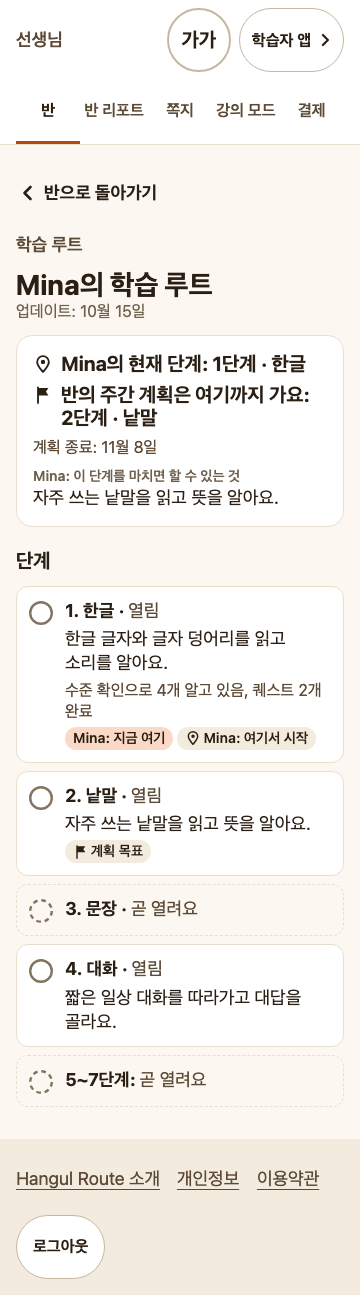
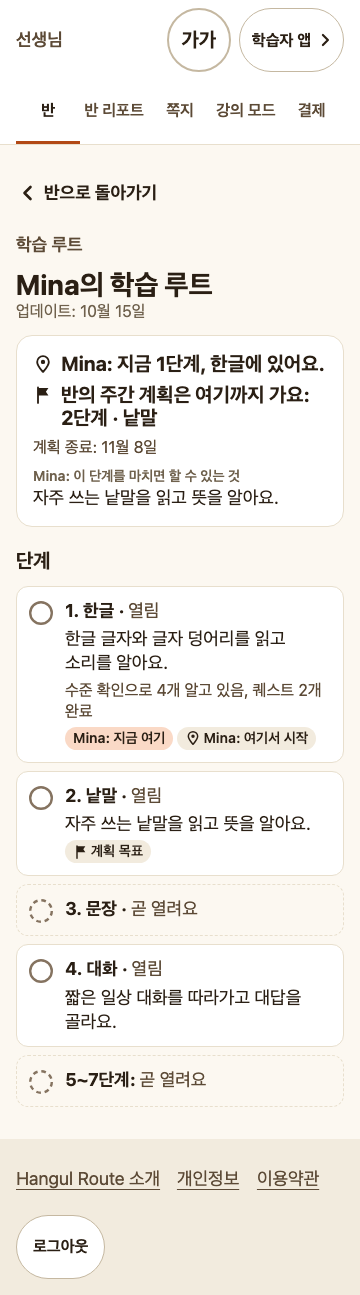
refactor(web,scripts): GX-9 stage titles from the shipped content overlays, no dictionary key
AMENDMENTS-GROWNUP-UX section 10.3 (as merged into GX-0 #917) says a stage title is content: the
console shows the overlay title (content/i18n/{es,ko}/stages.json) for the UI locale, English when
the overlay has none, and GX-9 adds no dictionary key and no new translation.

- build-lecture-catalogue keeps `stage:stageN` titles in the generated CATALOGUE_TITLES.
- stageTitleIn(locale) reads them, falling back to the shipped English STAGE_TITLES.
- packages/i18n back to main: console.stageTitles removed, the ko learningRoute.now line and the
  console review-ledger sign-off restored (the en text is unchanged, so no re-sign is needed).
- Tests: en equals stages.ts; es/ko equal the overlay files; generator id pattern covers stages.
- ko screenshots regenerated (the restored now line).

Changed region(s): [[0.3056, 0.2471, 0.8861, 0.3089]]

diff --git a/apps/web/src/lib/console/__tests__/stage-titles.test.ts b/apps/web/src/lib/console/__tests__/stage-titles.test.ts
@@ -1,6 +1,6 @@
 import { readFileSync } from 'node:fs';
 import { StageKeySchema } from '@hangul-route/content-schema';
-import { LOCALES, getMessages } from '@hangul-route/i18n';
+import { LOCALES } from '@hangul-route/i18n';
 import { describe, expect, it } from 'vitest';
 import { STAGE_TITLES, stageTitleIn } from '../stage-titles';
 
@@ -10,9 +10,9 @@ import { STAGE_TITLES, stageTitleIn } from '../stage-titles';
  * console bundle has no copy of that file, so this test keeps the two in step: a renamed stage
  * fails here before a parent and a child read different names.
  *
- * AMENDMENTS-GROWNUP-UX section 10.3 (GX-9, GX-OD-7): the console reads them from
- * `console.stageTitles` in the viewer's locale, so a Korean or Spanish grown-up no longer reads
- * "4단계 · Dialogue". English stays the shipped list.
+ * AMENDMENTS-GROWNUP-UX section 10.3 (GX-9, GX-OD-7): in es and ko the console shows the learner app's own
+ * overlay titles (`content/i18n/{es,ko}/stages.json`), so a Korean or Spanish grown-up no longer reads an English
+ * title inside their own line. English stays the shipped list. No dictionary key.
  */
 const MOBILE_STAGES = new URL('../../../../../mobile/src/content/stages.ts', import.meta.url);
 
@@ -31,59 +31,30 @@ describe('stage titles (Learning Route LR-8)', () => {
 });
 
 describe('stage titles in the viewer locale (GX-9, AMENDMENTS-GROWNUP-UX section 10.3)', () => {
-  it('English is the shipped list, unchanged, and is what the dictionary holds', () => {
-    expect(getMessages('en').console.stageTitles).toEqual(STAGE_TITLES);
+  it('English is the shipped list, unchanged', () => {
     for (const stage of StageKeySchema.options) expect(stageTitleIn('en')(stage)).toBe(STAGE_TITLES[stage]);
   });
 
   it('every locale names all seven stages', () => {
     for (const locale of LOCALES) {
-      const titles = getMessages(locale).console.stageTitles;
-      expect(Object.keys(titles), locale).toEqual([...StageKeySchema.options]);
       for (const stage of StageKeySchema.options) expect(stageTitleIn(locale)(stage).trim().length, `${locale} ${stage}`).toBeGreaterThan(0);
     }
   });
 
-  it('Korean and Spanish carry the section 10.3 titles', () => {
-    expect(getMessages('ko').console.stageTitles).toEqual({
-      stage1: '한글',
-      stage2: '낱말',
-      stage3: '문장',
-      stage4: '대화',
-      stage5: '이야기',
-      stage6: '실생활',
-      stage7: '자기표현',
-    });
-    expect(getMessages('es').console.stageTitles).toEqual({
-      stage1: 'Hangul',
-      stage2: 'Palabras',
-      stage3: 'Oraciones',
-      stage4: 'Diálogo',
-      stage5: 'Historias',
-      stage6: 'Uso real',
-      stage7: 'Expresión personal',
-    });
-  });
-
   // A parent's console and the child's app name a stage the same way: the learner app reads its es / ko titles from the
-  // content overlay (`localizeStage`, `content/i18n/{locale}/stages.json`), so the dictionary must equal it, key by key.
+  // content overlay (`localizeStage`, `content/i18n/{locale}/stages.json`), and so does the console, key by key.
   it.each(['es', 'ko'] as const)("%s titles equal the learner app's overlay titles", (locale) => {
     const overlay = JSON.parse(readFileSync(new URL(`../../../../../../content/i18n/${locale}/stages.json`, import.meta.url), 'utf8')) as {
       entries: Record<string, { title?: string }>;
     };
-    const fromOverlay = Object.fromEntries(StageKeySchema.options.map((stage) => [stage, overlay.entries[`stage:${stage}`]?.title]));
-    expect(fromOverlay).toEqual(getMessages(locale).console.stageTitles);
+    for (const stage of StageKeySchema.options) {
+      const title = overlay.entries[`stage:${stage}`]?.title;
+      expect(title, `${locale} ${stage} has an overlay title`).toBeTruthy();
+      expect(stageTitleIn(locale)(stage), `${locale} ${stage}`).toBe(title);
+    }
   });
 
   it('Korean titles carry no Latin letters (no English title left inside a Korean line)', () => {
     for (const stage of StageKeySchema.options) expect(stageTitleIn('ko')(stage)).not.toMatch(/[A-Za-z]/);
-  });
-
-  it('the Korean "now" line reads with every title, the particle never on the title', () => {
-    const now = getMessages('ko').console.learningRoute.now;
-    for (const stage of StageKeySchema.options) {
-      const line = now('미나', 4, stageTitleIn('ko')(stage));
-      expect(line).toBe(`미나의 현재 단계: 4단계 · ${stageTitleIn('ko')(stage)}`);
-    }
   });
 });

diff --git a/apps/web/e2e/learning-route.spec.ts b/apps/web/e2e/learning-route.spec.ts
@@ -1,3 +1,5 @@
+import { readFileSync } from 'node:fs';
+import { join } from 'node:path';
 import { expect, test, type Page, type Route } from '@playwright/test';
 import { CATALOG, generateCurriculum, toMeta } from '@hangul-route/content-schema';
 import { formatDate, getMessages } from '@hangul-route/i18n';
@@ -250,11 +252,25 @@ test.describe('the stage list page (LR-8)', () => {
  */
 const ENGLISH_ONLY_TITLES = /\b(Words|Sentences|Dialogue|Stories|Real-use|Self-expression)\b/;
 
+/** The titles the console shows in `locale`: the learner app's overlay titles (`content/i18n/<locale>/stages.json`), English as shipped. */
+const ENGLISH_TITLES = ['Hangul', 'Words', 'Sentences', 'Dialogue', 'Stories', 'Real-use', 'Self-expression'] as const;
+function stageTitles(locale: 'ko' | 'es' | 'en'): Record<'stage1' | 'stage2' | 'stage3' | 'stage4', string> {
+  const overlay =
+    locale === 'en'
+      ? null
+      : (JSON.parse(readFileSync(join(__dirname, '..', '..', '..', 'content', 'i18n', locale, 'stages.json'), 'utf8')) as {
+          entries: Record<string, { title: string }>;
+        });
+  const title = (n: number): string => overlay?.entries[`stage:stage${n}`]?.title ?? ENGLISH_TITLES[n - 1]!;
+  return { stage1: title(1), stage2: title(2), stage3: title(3), stage4: title(4) };
+}
+
 for (const locale of ['ko', 'es', 'en'] as const) {
   test.describe(`stage titles in ${locale} (GX-9)`, () => {
     test.skip(!FULL, 'needs an export built with the Learning Route on (LEARNING_ROUTE_E2E=1)');
     test.use({ locale: locale === 'ko' ? 'ko-KR' : locale === 'es' ? 'es-US' : 'en-US' });
     const m = getMessages(locale).console;
+    const titles = stageTitles(locale);
 
     for (const width of [360, 1280]) {
       test(`class at ${width}: the card and the stage list name each stage in ${locale}`, async ({ page }) => {
@@ -264,11 +280,11 @@ for (const locale of ['ko', 'es', 'en'] as const) {
 
         await expect(page.getByRole('heading', { level: 1 })).toHaveText(m.learningRoute.title('Mina'));
         const card = page.getByRole('region', { name: m.learningRoute.section, exact: true });
-        await expect(card.getByText(m.learningRoute.now('Mina', 1, m.stageTitles.stage1), { exact: true })).toBeVisible();
-        await expect(card.getByText(m.learningRoute.planReaches.class(2, m.stageTitles.stage2), { exact: true })).toBeVisible();
+        await expect(card.getByText(m.learningRoute.now('Mina', 1, titles.stage1), { exact: true })).toBeVisible();
+        await expect(card.getByText(m.learningRoute.planReaches.class(2, titles.stage2), { exact: true })).toBeVisible();
 
         const list = page.locator('ol');
-        for (const stage of ['stage1', 'stage2', 'stage3', 'stage4'] as const) await expect(list).toContainText(m.stageTitles[stage]);
+        for (const stage of ['stage1', 'stage2', 'stage3', 'stage4'] as const) await expect(list).toContainText(titles[stage]);
         if (locale !== 'en') await expect(page.locator('main')).not.toContainText(ENGLISH_ONLY_TITLES);
 
         await noSidewaysScroll(page);

diff --git a/apps/web/src/lib/console/stage-titles.ts b/apps/web/src/lib/console/stage-titles.ts
@@ -1,21 +1,33 @@
 import type { StageKey } from '@hangul-route/content-schema';
-import { getMessages, type UiLocale } from '@hangul-route/i18n';
+import type { UiLocale } from '@hangul-route/i18n';
+import { CATALOGUE_TITLES } from '@/data/catalogue-titles.generated';
 
 /**
- * The seven stage titles. The learner app keeps them in `apps/mobile/src/content/stages.ts` (`titleEn`); the console
- * bundle has no copy of that file, so the grown-up Learning Route (AMENDMENTS-ROUTE-LEARNING-ROUTE section 6.1, LR-8)
- * reads them from the dictionary, and `stage-titles.test.ts` fails when the English list and the learner app's drift
- * apart.
- *
- * AMENDMENTS-GROWNUP-UX section 10.3 (GX-9, GX-OD-7): the titles live in `console.stageTitles`, so a Korean or Spanish
- * grown-up reads stage 4 in their own language ("Etapa 4 · Diálogo"), not an English title inside their own line. Every
- * console view takes `stageTitleIn(locale)` with the locale it renders in; there is no locale-blind getter left to pass
- * by mistake.
+ * The seven stage titles, which are content (F-I18N-001 section 3.6: like a quest title, a stage
+ * title is not a dictionary string). The learner app keeps them in `apps/mobile/src/content/stages.ts`
+ * (`titleEn`); the console bundle has no copy of that file, so the grown-up Learning Route
+ * (AMENDMENTS-ROUTE-LEARNING-ROUTE section 6.1, LR-8) reads them here, and `stage-titles.test.ts`
+ * fails when the two lists drift apart.
  */
-export const STAGE_TITLES: Readonly<Record<StageKey, string>> = getMessages('en').console.stageTitles;
+export const STAGE_TITLES: Readonly<Record<StageKey, string>> = {
+  stage1: 'Hangul',
+  stage2: 'Words',
+  stage3: 'Sentences',
+  stage4: 'Dialogue',
+  stage5: 'Stories',
+  stage6: 'Real-use',
+  stage7: 'Self-expression',
+};
 
-/** The stage title getter for one console locale, the `stageTitle` every console view model takes. */
+/**
+ * The stage title getter for one console locale, the `stageTitle` every console view model takes
+ * (AMENDMENTS-GROWNUP-UX section 10.3, GX-9). The es and ko titles are the ones the learner app already
+ * shows: the content overlays' `stage:stageN` title (`content/i18n/<locale>/stages.json`), kept in the
+ * generated `CATALOGUE_TITLES` (`scripts/build-lecture-catalogue.mjs`), so a grown-up's console and a
+ * child's app name a stage the same way ("Etapa 4 · Diálogo"). A locale with no overlay title falls back to
+ * the English title. No dictionary key and no new translation.
+ */
 export const stageTitleIn =
   (locale: UiLocale) =>
   (stage: StageKey): string =>
-    getMessages(locale).console.stageTitles[stage];
+    (locale === 'en' ? undefined : CATALOGUE_TITLES[locale]?.[`stage:${stage}`]) ?? STAGE_TITLES[stage];

diff --git a/packages/i18n/src/__tests__/console-messages.test.ts b/packages/i18n/src/__tests__/console-messages.test.ts
@@ -34,7 +34,7 @@ describe('console: the former COPY, keys and wording unchanged', () => {
   // revisitTogether, notSyncedWeek) for whole-sentence messages under `space.week`; PR 10b added `plan` and `billing`;
   // F-TCH-004 PR 10 added `lecture`; F-I18N-001 PR 10c added `settings`, `school` and `parent`; F-PLC-001 P-9 added `placement`; F-ROUTE-001 R-9a added `journey`; F-APP-001 A-2 added `offline`; F-APP-001 A-4a added `lock`; F-ENT-003 E3-9 added `access`; Learning Route LR-7 added `learningRoute`; F-FEEDBACK-001 FB-5 added `notes`; F-SPACE-002 T-6a added `transfer`; F-APP-001 A-4b removed `whySignIn`, `kidsNoAccount` and `clerkIntro` (design pass D14); F-APP-001 A-5b replaced the `/parent` demo's `parent` with `parentHome` (OD-4); F-BILL-002 B-8c removed `billingKidsLine`, `billingPastDue`, `billingSuccess` and `billingNotConfigured` with the old billing page; owner items 6 and 7 replaced the header select's `language` with `docTitle`; AMENDMENTS-LECTURE-V2 LV-3 added `chooser` (the grouped lesson picker); AMENDMENTS-DISPLAY-NAV DN-6 added `pageBack` and `confirm`; AMENDMENTS-SEATS-ADMINS SA-3 added `seats` and `rename` (and replaced `schoolNoLicence` with `schoolNoLicenceCaps`).
   it('has exactly the 47 remaining COPY keys plus the formatter and page groups', () => {
-    const groups = ['docTitle', 'codeExpiry', 'spaceCounts', 'planCounts', 'planStatus', 'entitlementStatus', 'price', 'promoPrice', 'stageTitles'];
+    const groups = ['docTitle', 'codeExpiry', 'spaceCounts', 'planCounts', 'planStatus', 'entitlementStatus', 'price', 'promoPrice'];
     const pages = ['shell', 'kind', 'joinCode', 'signIn', 'start', 'home', 'space', 'relink', 'plan', 'billing', 'curriculum', 'lecture', 'settings', 'school', 'parentHome', 'placement', 'journey', 'offline', 'lock', 'access', 'learningRoute', 'notes', 'transfer', 'browse', 'teacherMove', 'classScope', 'reportScope', 'chooser', 'pageBack', 'confirm', 'seats', 'rename', 'admins', 'adminInvite', 'pinOwner', 'pinPrompt', 'pinReset'];
     const copyKeys = Object.keys(en.console).filter((k) => !groups.includes(k) && !pages.includes(k));
     expect(copyKeys).toHaveLength(47);

diff --git a/packages/i18n/src/messages/ko/console.ts b/packages/i18n/src/messages/ko/console.ts
@@ -1115,7 +1115,7 @@ export const consoleMsgs = {
     section: '학습 루트',
     stagesTitle: '단계',
     back: { report: '리포트로 돌아가기', class: '반으로 돌아가기', family: '가족으로 돌아가기', space: '돌아가기' },
-    now: (name: string, n: number, title: string) => `${name}의 현재 단계: ${n}단계 · ${title}`,
+    now: (name: string, n: number, title: string) => `${name}: 지금 ${n}단계, ${title}에 있어요.`,
     learnerGoal: (name: string, n: number, title: string) => `${name}의 목표: ${n}단계 · ${title}`,
     fromLead: {
       class: '반의 주간 계획에서',
@@ -1143,19 +1143,6 @@ export const consoleMsgs = {
     notFound: '이 공간에서 이 학습자를 찾을 수 없어요.',
     knownLine: (known: number) => `수준 확인으로 ${known}개 알고 있음`,
     stageRow: (n: number, title: string, state: string) => `${n}. ${title} · ${state}`,
-  },
-  /**
-   * GX-9 (AMENDMENTS-GROWNUP-UX section 10.3): 낱말 is the F-I18N-001 glossary word; the titles stand after a "·" or a
-   * colon, never before a particle. The values equal the learner app's titles (`content/i18n/ko/stages.json`).
-   */
-  stageTitles: {
-    stage1: '한글',
-    stage2: '낱말',
-    stage3: '문장',
-    stage4: '대화',
-    stage5: '이야기',
-    stage6: '실생활',
-    stage7: '자기표현',
   },
   /** The adult nav item of F-FEEDBACK-001 (FB-5b) lives in `shell.nav.notes` above. */
   notes: {

diff --git a/packages/i18n/src/messages/en/console.ts b/packages/i18n/src/messages/en/console.ts
@@ -1587,20 +1587,6 @@ export const consoleMsgs = {
     stageRow: (n: number, title: string, state: string) => `${n}. ${title} · ${state}`,
   },
   /**
-   * AMENDMENTS-GROWNUP-UX section 10.3 (GX-9, GX-OD-7): the seven stage titles in the viewer's language, the `title`
-   * every "Stage {n} · {title}" line above reads. English is the shipped list, unchanged, and must equal the learner
-   * app's `titleEn` (`apps/mobile/src/content/stages.ts`; `apps/web/src/lib/console/__tests__/stage-titles.test.ts`).
-   */
-  stageTitles: {
-    stage1: 'Hangul',
-    stage2: 'Words',
-    stage3: 'Sentences',
-    stage4: 'Dialogue',
-    stage5: 'Stories',
-    stage6: 'Real-use',
-    stage7: 'Self-expression',
-  },
-  /**
    * Class moves (F-SPACE-002 section 4.8, PR T-6a; mockups `design/screens/transfer/`, T-0b #472). "Move" is the
    * user-facing word everywhere; `transfer` stays the internal name. The class pages say "student" through
    * `memberNoun` (`memberNounSingular`), the family page says "learner". No card ever names who said no: every

diff --git a/packages/i18n/src/messages/es/console.ts b/packages/i18n/src/messages/es/console.ts
@@ -1241,19 +1241,6 @@ export const consoleMsgs = {
     knownLine: (known: number) => `${known} ${plural('es', known, { one: 'dominada', other: 'dominadas' })} según la prueba de nivel`,
     stageRow: (n: number, title: string, state: string) => `${n}. ${title} · ${state}`,
   },
-  /**
-   * GX-9 (AMENDMENTS-GROWNUP-UX section 10.3): each title stands after "Etapa {n}:" or "·", so no article agrees with it.
-   * The values equal the learner app's titles (`content/i18n/es/stages.json`), so a parent and a child read one name.
-   */
-  stageTitles: {
-    stage1: 'Hangul',
-    stage2: 'Palabras',
-    stage3: 'Oraciones',
-    stage4: 'Diálogo',
-    stage5: 'Historias',
-    stage6: 'Uso real',
-    stage7: 'Expresión personal',
-  },
   notes: {
     sendNote: { cta: 'Enviar una nota' },
     newNote: { cta: 'Nueva nota' },
